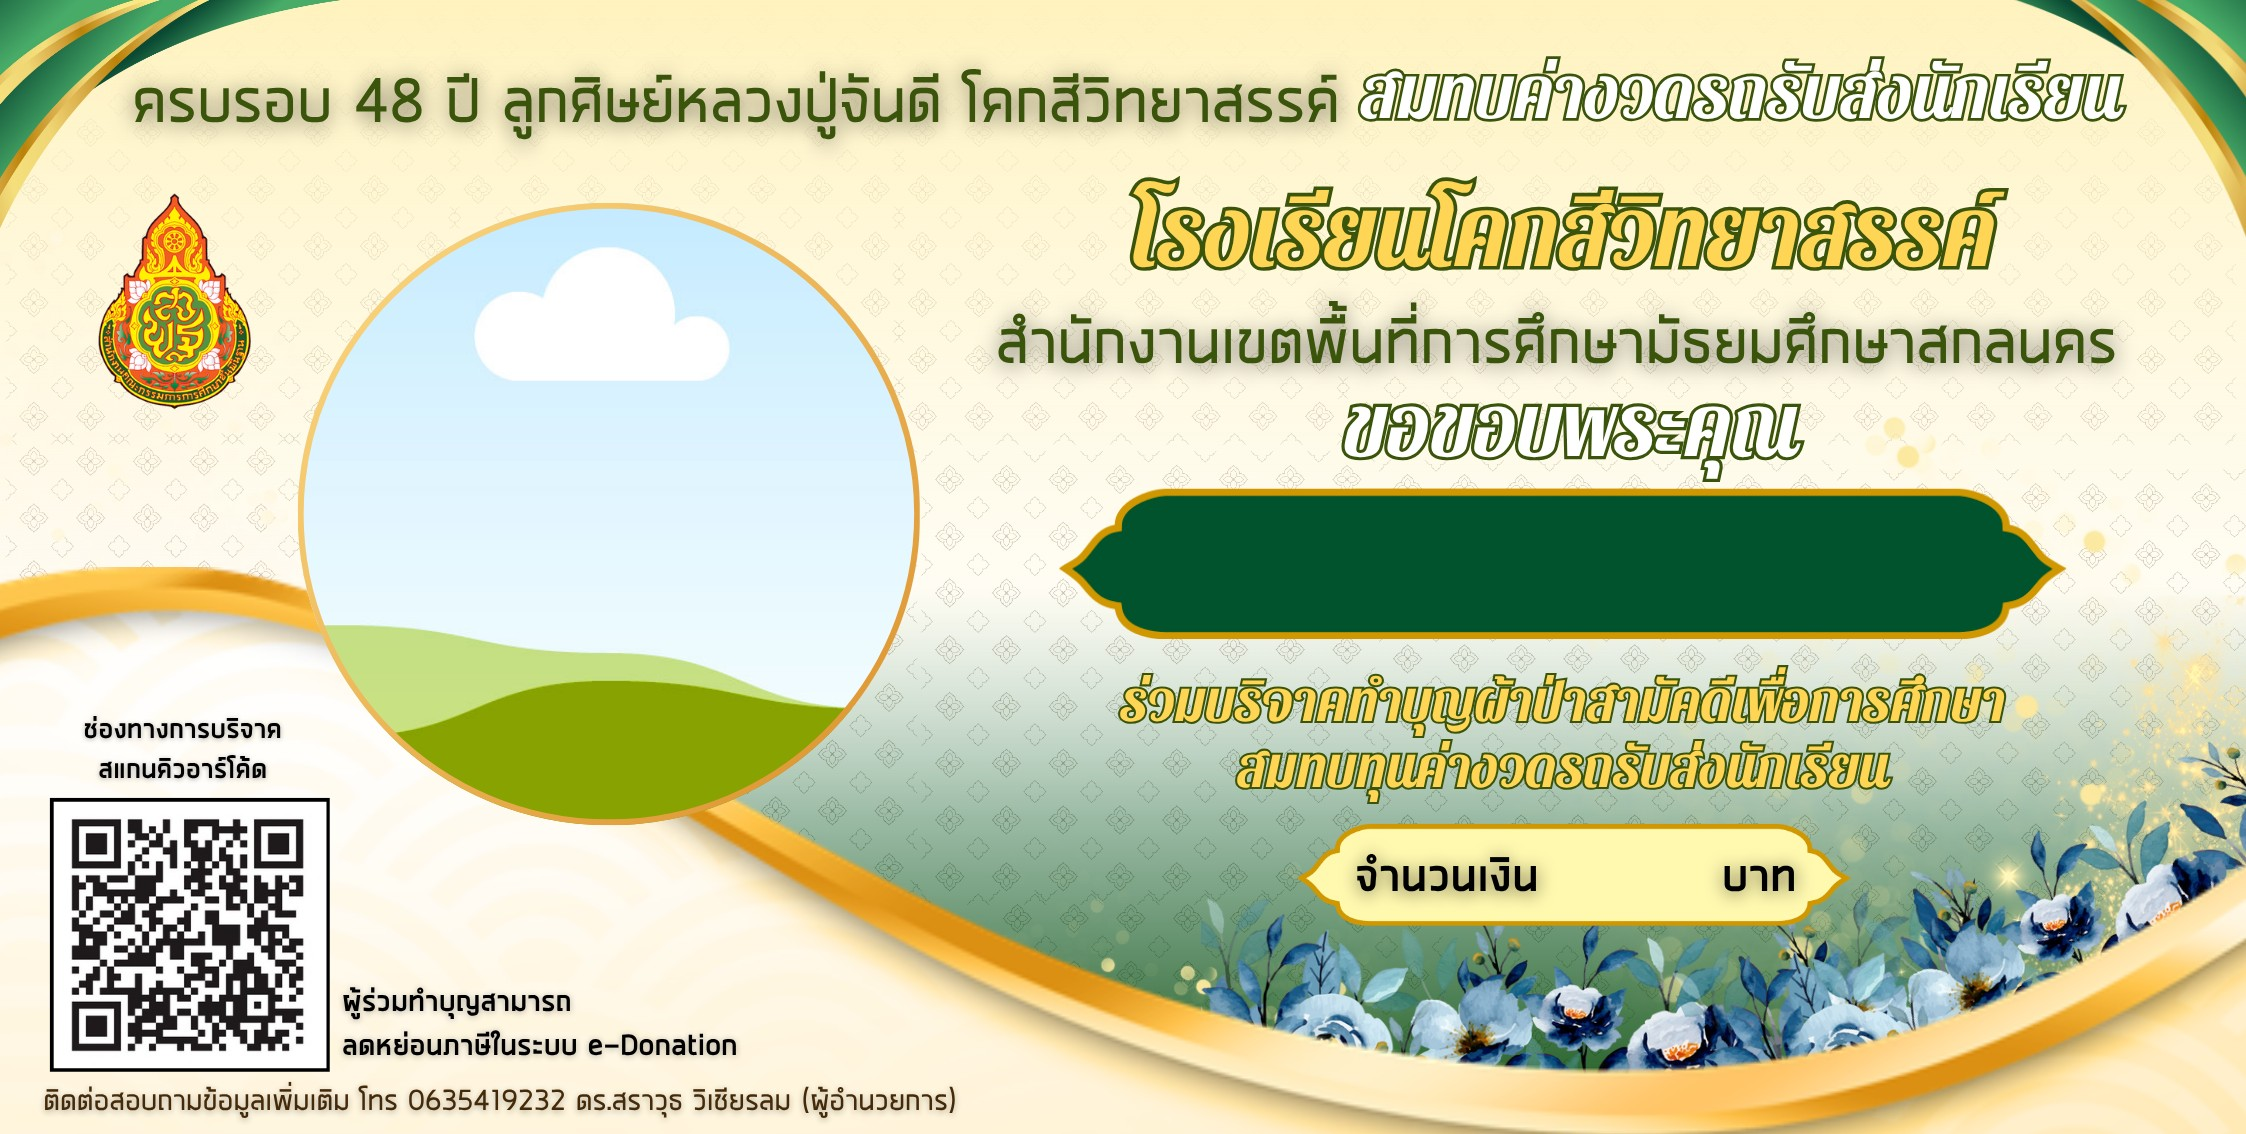
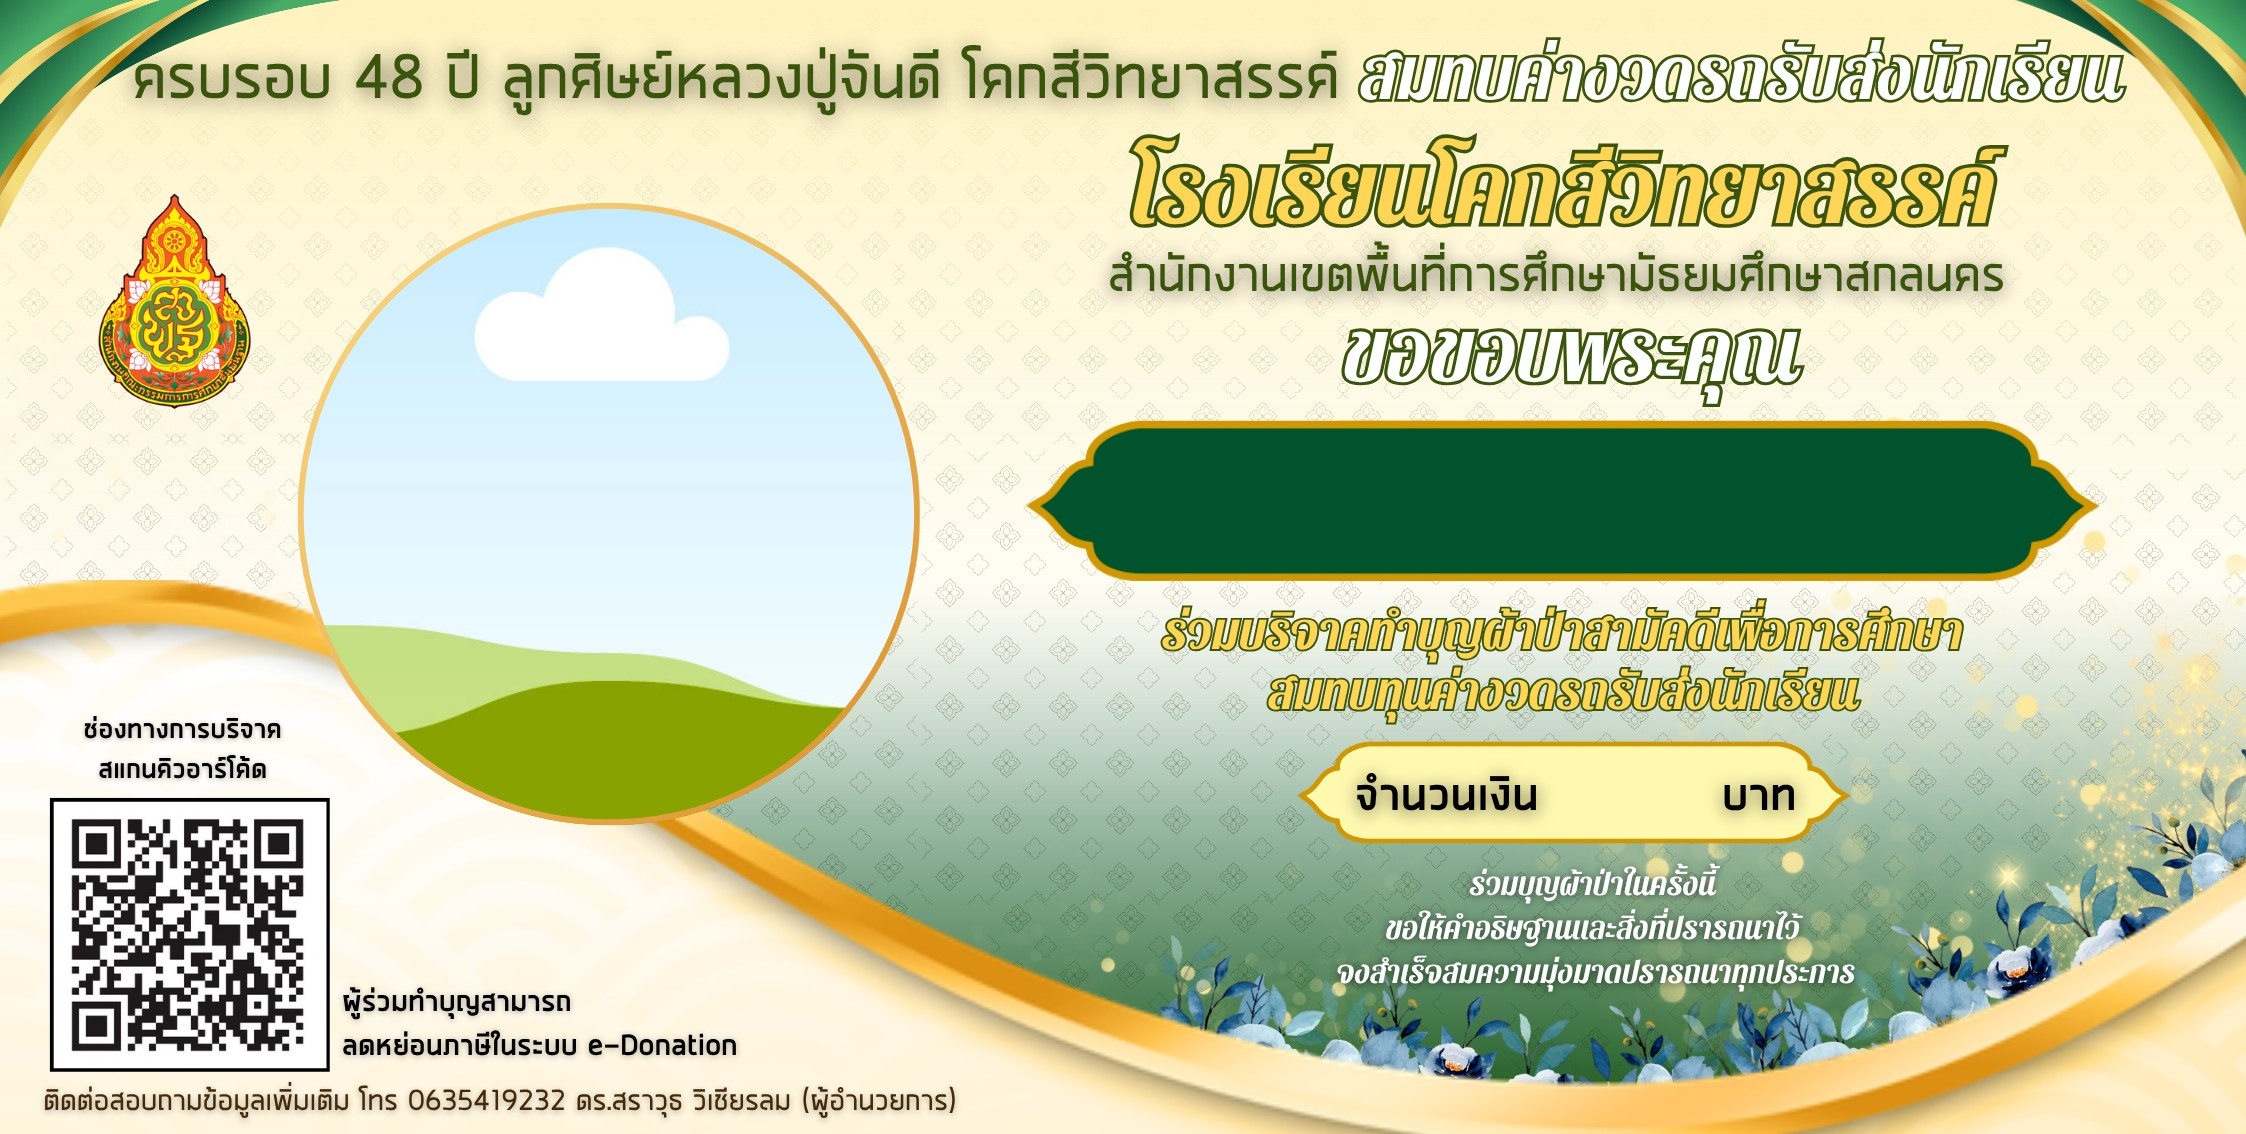
Thanks card: update to revised Canva design

Changed region(s): [[0.0623, 0.0309, 1.0, 1.0], [0.0, 0.4938, 0.1558, 0.6173], [0.9973, 0.8025, 1.0, 0.8333]]

diff --git a/assets/js/admin.js b/assets/js/admin.js
@@ -1,16 +1,16 @@
 import {
   app, db, isConfigured, collection, query, orderBy, onSnapshot, doc, getDoc, updateDoc, deleteDoc, setDoc,
   serverTimestamp,
-} from "./firebase.js?v=17";
+} from "./firebase.js?v=18";
 import {
   initializeAuth, browserLocalPersistence, inMemoryPersistence, browserPopupRedirectResolver, GoogleAuthProvider, signInWithPopup, signInWithRedirect, signInAnonymously, onAuthStateChanged, signOut,
 } from "https://www.gstatic.com/firebasejs/10.12.2/firebase-auth.js";
 import {
   $, $$, baht, escapeHtml, loadSettings, setupBanner, toast, TYPE_LABEL, STATUS_LABEL, DELIVERY_LABEL, orderSummaryText,
-} from "./common.js?v=17";
-import { SHIRT_SIZES, DEFAULT_SETTINGS } from "./config.js?v=17";
-import { renderThanksCard, downloadCanvas } from "./thanks-card.js?v=17";
-import { renderLedger, payGroup, PAY_GROUP_LABEL } from "./ledger.js?v=17";
+} from "./common.js?v=18";
+import { SHIRT_SIZES, DEFAULT_SETTINGS } from "./config.js?v=18";
+import { renderThanksCard, downloadCanvas } from "./thanks-card.js?v=18";
+import { renderLedger, payGroup, PAY_GROUP_LABEL } from "./ledger.js?v=18";
 
 setupBanner();
 // เก็บสถานะเข้าระบบใน localStorage (ไม่ใช้ IndexedDB ที่อาจค้างในบางเบราว์เซอร์)

diff --git a/donors.html b/donors.html
@@ -7,7 +7,7 @@
   <meta name="theme-color" content="#063d27">
   <link rel="preconnect" href="https://fonts.googleapis.com">
   <link href="https://fonts.googleapis.com/css2?family=Kanit:wght@400;500&family=Sarabun:wght@400;600;700&display=swap" rel="stylesheet">
-  <link rel="stylesheet" href="assets/css/style.css?v=17">
+  <link rel="stylesheet" href="assets/css/style.css?v=18">
 </head>
 <body style="padding-bottom:0">
   <header class="topbar"><div class="container">
@@ -26,8 +26,8 @@
   <footer data-s="schoolName">โรงเรียนโคกสีวิทยาสรรค์</footer>
 
   <script type="module">
-    import { db, isConfigured, collection, query, orderBy, onSnapshot } from "./assets/js/firebase.js?v=17";
-    import { $, baht, escapeHtml, loadSettings, fillEventText, setupBanner } from "./assets/js/common.js?v=17";
+    import { db, isConfigured, collection, query, orderBy, onSnapshot } from "./assets/js/firebase.js?v=18";
+    import { $, baht, escapeHtml, loadSettings, fillEventText, setupBanner } from "./assets/js/common.js?v=18";
     setupBanner();
     fillEventText(await loadSettings());
     if (isConfigured) {

diff --git a/shirt.html b/shirt.html
@@ -7,7 +7,7 @@
   <meta name="theme-color" content="#063d27">
   <link rel="preconnect" href="https://fonts.googleapis.com">
   <link href="https://fonts.googleapis.com/css2?family=Kanit:wght@400;500&family=Sarabun:wght@400;600;700&display=swap" rel="stylesheet">
-  <link rel="stylesheet" href="assets/css/style.css?v=17">
+  <link rel="stylesheet" href="assets/css/style.css?v=18">
   <script src="https://cdn.jsdelivr.net/npm/jsqr@1.4.0/dist/jsQR.min.js" defer></script>
 </head>
 <body>
@@ -80,9 +80,9 @@
   </div></div>
 
   <script type="module">
-    import { initOrderPage } from "./assets/js/order-form.js?v=17";
-    import { $, $$, baht } from "./assets/js/common.js?v=17";
-    import { SHIRT_SIZES } from "./assets/js/config.js?v=17";
+    import { initOrderPage } from "./assets/js/order-form.js?v=18";
+    import { $, $$, baht } from "./assets/js/common.js?v=18";
+    import { SHIRT_SIZES } from "./assets/js/config.js?v=18";
 
     const qty = {};
     const setters = {};

diff --git a/donate.html b/donate.html
@@ -7,7 +7,7 @@
   <meta name="theme-color" content="#063d27">
   <link rel="preconnect" href="https://fonts.googleapis.com">
   <link href="https://fonts.googleapis.com/css2?family=Kanit:wght@400;500&family=Sarabun:wght@400;600;700&display=swap" rel="stylesheet">
-  <link rel="stylesheet" href="assets/css/style.css?v=17">
+  <link rel="stylesheet" href="assets/css/style.css?v=18">
   <script src="https://cdn.jsdelivr.net/npm/jsqr@1.4.0/dist/jsQR.min.js" defer></script>
   <style>
     .chips { display: flex; flex-wrap: wrap; gap: 8px; margin-top: 10px; }
@@ -90,8 +90,8 @@
   </div></div>
 
   <script type="module">
-    import { initOrderPage } from "./assets/js/order-form.js?v=17";
-    import { $, $$, baht } from "./assets/js/common.js?v=17";
+    import { initOrderPage } from "./assets/js/order-form.js?v=18";
+    import { $, $$, baht } from "./assets/js/common.js?v=18";
 
     const amt = () => Math.round((parseFloat($("#f-amount").value) || 0) * 100) / 100;
 

diff --git a/index.html b/index.html
@@ -10,7 +10,7 @@
   <meta property="og:image" content="assets/img/shirt.jpg">
   <link rel="preconnect" href="https://fonts.googleapis.com">
   <link href="https://fonts.googleapis.com/css2?family=Kanit:wght@400;500&family=Sarabun:wght@400;600;700&display=swap" rel="stylesheet">
-  <link rel="stylesheet" href="assets/css/style.css?v=17">
+  <link rel="stylesheet" href="assets/css/style.css?v=18">
 </head>
 <body>
   <section class="hero">
@@ -71,7 +71,7 @@
   <footer><span data-s="schoolName">โรงเรียนโคกสีวิทยาสรรค์</span></footer>
 
   <script type="module">
-    import { loadSettings, fillEventText, setupBanner, $, $$ } from "./assets/js/common.js?v=17";
+    import { loadSettings, fillEventText, setupBanner, $, $$ } from "./assets/js/common.js?v=18";
     setupBanner();
     const s = await loadSettings();
     fillEventText(s);

diff --git a/ticket.html b/ticket.html
@@ -7,7 +7,7 @@
   <meta name="theme-color" content="#063d27">
   <link rel="preconnect" href="https://fonts.googleapis.com">
   <link href="https://fonts.googleapis.com/css2?family=Kanit:wght@400;500&family=Sarabun:wght@400;600;700&display=swap" rel="stylesheet">
-  <link rel="stylesheet" href="assets/css/style.css?v=17">
+  <link rel="stylesheet" href="assets/css/style.css?v=18">
   <script src="https://cdn.jsdelivr.net/npm/jsqr@1.4.0/dist/jsQR.min.js" defer></script>
 </head>
 <body>
@@ -97,8 +97,8 @@
   </div></div>
 
   <script type="module">
-    import { initOrderPage } from "./assets/js/order-form.js?v=17";
-    import { $, baht } from "./assets/js/common.js?v=17";
+    import { initOrderPage } from "./assets/js/order-form.js?v=18";
+    import { $, baht } from "./assets/js/common.js?v=18";
 
     let singles = 0, books = 0;
     const setters = {};

diff --git a/staff-49aacfdc.html b/staff-49aacfdc.html
@@ -8,7 +8,7 @@
   <meta name="robots" content="noindex">
   <link rel="preconnect" href="https://fonts.googleapis.com">
   <link href="https://fonts.googleapis.com/css2?family=Kanit:wght@400;500&family=Mitr:wght@400&family=Chonburi&family=Sarabun:wght@400;600;700&display=swap" rel="stylesheet">
-  <link rel="stylesheet" href="assets/css/style.css?v=17">
+  <link rel="stylesheet" href="assets/css/style.css?v=18">
   <style>
     body { padding-bottom: 24px; }
     .tabs {
@@ -155,6 +155,6 @@
 
   <div id="modal" class="modal" hidden><div class="sheet" id="sheet"></div></div>
 
-  <script type="module" src="assets/js/admin.js?v=17"></script>
+  <script type="module" src="assets/js/admin.js?v=18"></script>
 </body>
 </html>

diff --git a/assets/js/ledger.js b/assets/js/ledger.js
@@ -1,7 +1,7 @@
 // บัญชีรายนามผู้ร่วมทำบุญ (สำหรับคัดลอกลงสมุดบัญชี)
-import { db, doc, updateDoc, setDoc, writeBatch, serverTimestamp } from "./firebase.js?v=17";
-import { $, $$, baht, escapeHtml, genCode, toast, STATUS_LABEL } from "./common.js?v=17";
-import { NAME_PREFIXES } from "./config.js?v=17";
+import { db, doc, updateDoc, setDoc, writeBatch, serverTimestamp } from "./firebase.js?v=18";
+import { $, $$, baht, escapeHtml, genCode, toast, STATUS_LABEL } from "./common.js?v=18";
+import { NAME_PREFIXES } from "./config.js?v=18";
 
 const opt = { scope: "paid", notInBook: false, q: "", pay: "" };
 let ctx = null;

diff --git a/assets/js/order-form.js b/assets/js/order-form.js
@@ -1,8 +1,8 @@
 import {
   $, $$, baht, escapeHtml, loadSettings, fillEventText, setupBanner, compressImage, readSlipQR,
   genCode, submitOrder, DuplicateSlipError, paymentBlockHtml, showSuccess, toast,
-} from "./common.js?v=17";
-import { NAME_PREFIXES, PAYMENT_QR } from "./config.js?v=17";
+} from "./common.js?v=18";
+import { NAME_PREFIXES, PAYMENT_QR } from "./config.js?v=18";
 
 // เบราว์เซอร์ในแอป LINE บันทึกรูปลงเครื่องไม่ค่อยได้
 if (/ Line\//.test(navigator.userAgent) && !/[?&]openExternalBrowser=1/.test(location.search)) {

diff --git a/posters.html b/posters.html
@@ -7,7 +7,7 @@
   <meta name="robots" content="noindex">
   <link rel="preconnect" href="https://fonts.googleapis.com">
   <link href="https://fonts.googleapis.com/css2?family=Kanit:wght@400;500&family=Sarabun:wght@400;600&display=swap" rel="stylesheet">
-  <link rel="stylesheet" href="assets/css/style.css?v=17">
+  <link rel="stylesheet" href="assets/css/style.css?v=18">
   <style>
     body { padding: 0; }
     .wrap { display: grid; gap: 20px; grid-template-columns: repeat(auto-fit, minmax(260px, 1fr)); padding: 20px 16px; max-width: 1100px; margin: 0 auto; }

diff --git a/assets/js/common.js b/assets/js/common.js
@@ -1,5 +1,5 @@
-import { db, isConfigured, doc, getDoc, writeBatch, serverTimestamp } from "./firebase.js?v=17";
-import { DEFAULT_SETTINGS, LINE_NOTIFY_URL, LINE_NOTIFY_KEY } from "./config.js?v=17";
+import { db, isConfigured, doc, getDoc, writeBatch, serverTimestamp } from "./firebase.js?v=18";
+import { DEFAULT_SETTINGS, LINE_NOTIFY_URL, LINE_NOTIFY_KEY } from "./config.js?v=18";
 
 export const $ = (sel, root = document) => root.querySelector(sel);
 export const $$ = (sel, root = document) => [...root.querySelectorAll(sel)];

diff --git a/assets/js/thanks-card.js b/assets/js/thanks-card.js
@@ -2,8 +2,8 @@
 // ตำแหน่งด้านล่างวัดจากภาพพื้นหลังขนาด 2246×1134
 const BG = new URL("../img/thanks-bg.jpg", import.meta.url).href;
 const PHOTO = { x: 608, y: 513, r: 306 };
-const NAME_BAR = { x: 1561, y: 563, w: 840, h: 135 };
-const AMOUNT = { x: 1628, y: 876, w: 172 };
+const NAME_BAR = { x: 1561, y: 500, w: 840, h: 143 };
+const AMOUNT = { x: 1630, y: 790, w: 172 };
 
 function loadImg(src) {
   return new Promise((resolve, reject) => {
